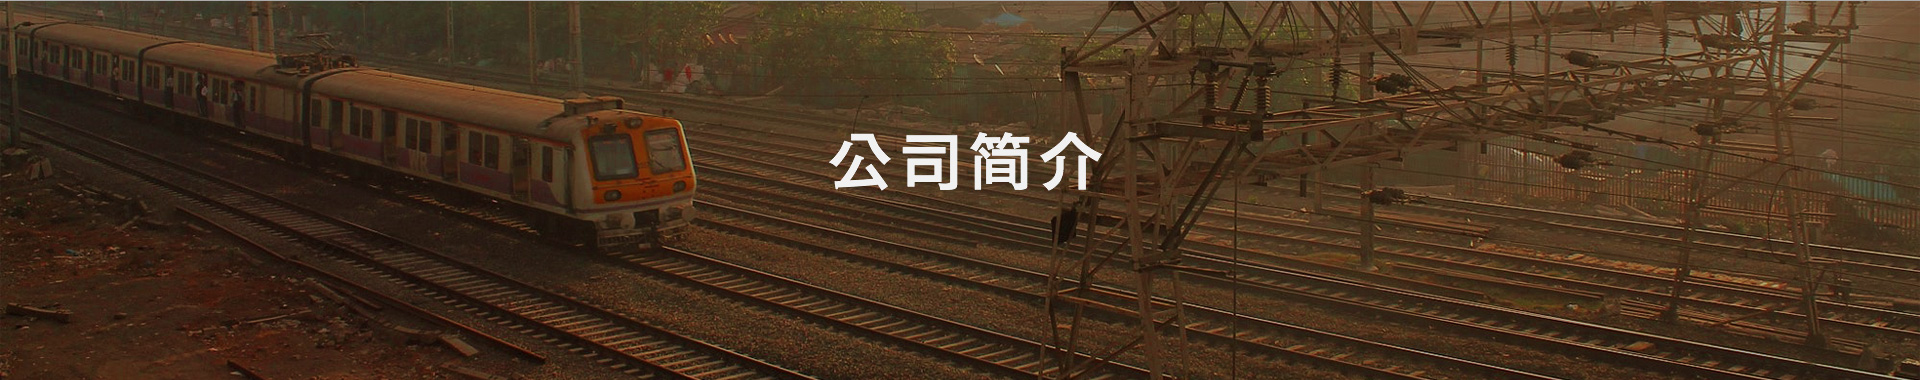
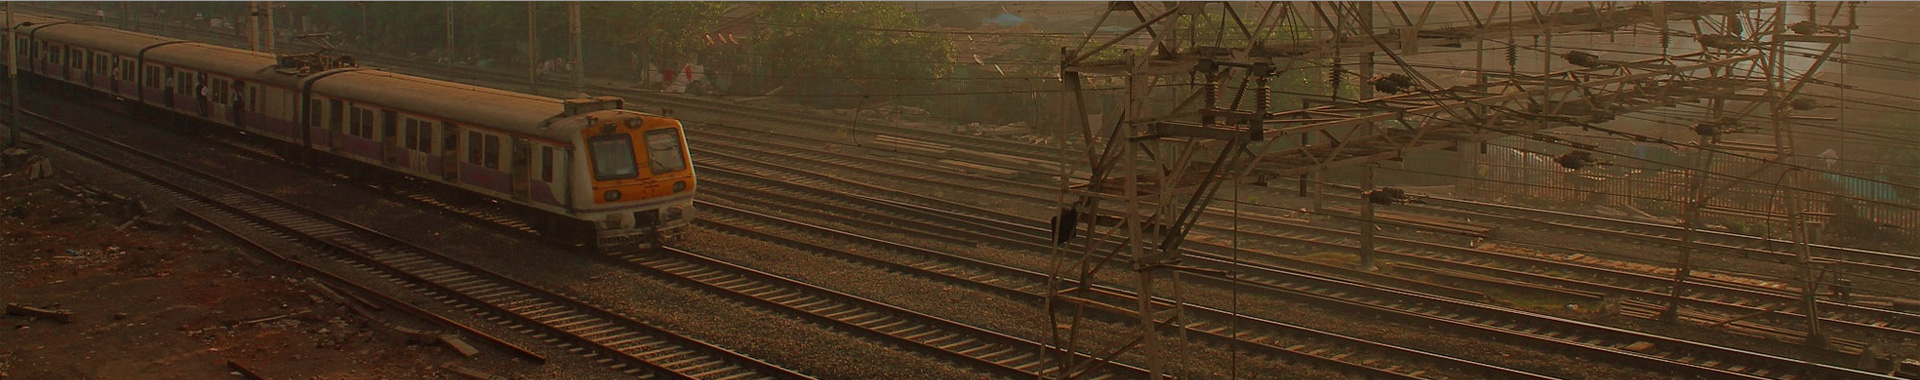
translated for about and header

Changed region(s): [[0.4062, 0.3474, 0.5938, 0.4921]]

diff --git a/src/multi/entries/about/main.js b/src/multi/entries/about/main.js
@@ -18,17 +18,27 @@ class Frame extends MultiMain {
         this.model = {};
         this.tpl = fs.readFileSync(`${__dirname}/view.tpl`, 'utf8');
         this.initModel();
-    }
+    } 
 
     initModel() {
         let head = new Head();
         let header = new Header();
         let footer = new Footer();
-
+ 
         this.model = _.extend(this.model, {
             head: head.render({ less: 'about', title: '<$- RUSSIA_TITLE $>' }).html,
             header: header.render({num: 1}).html,
-            footer: footer.render().html
+            footer: footer.render().html,
+            ABOUT_TITLE_ONE: '<$- ABOUT_TITLE_ONE $>',
+            ABOUT_TITLE_TWO: '<$- ABOUT_TITLE_TWO $>',
+            ABOUT_TITLE_THREE: '<$- ABOUT_TITLE_THREE $>',
+            ABOUT_TITLE_FOUR: '<$- ABOUT_TITLE_FOUR $>',
+            ABOUT_CONTENT_ONE_1: '<$- ABOUT_CONTENT_ONE_1 $>',
+            ABOUT_CONTENT_ONE_2: '<$- ABOUT_CONTENT_ONE_2 $>', 
+            ABOUT_CONTENT_TWO: '<$- ABOUT_CONTENT_TWO $>', 
+            ABOUT_CONTENT_THREE: '<$- ABOUT_CONTENT_THREE $>', 
+            ABOUT_CONTENT_FOUR: '<$- ABOUT_CONTENT_FOUR $>', 
+            ABOUT_TITLE: '<$- NAV_ABOUT $>'
         });
 
         return this;

diff --git a/src/bin/multiMain.js b/src/bin/multiMain.js
@@ -144,13 +144,18 @@ class Header extends MultiView {
     }
 
     initEvent() {
+
         this.$navLis = $('.header .wrapper ul .level_1');
+        // this.chooseLang = document.getElementById('chooseLang');
         this.$chooseLang = $('#chooseLang');
         this.$aDom = $('#header a');
 
         let lang = ~location.href.indexOf('cn') ? 'china' : 'russia';
+        let fontSize = ~location.href.indexOf('cn') ? 16 : 12;
+        this.$navLis.css('font-size', fontSize)
         this.$chooseLang.val(lang);
 
+        // console.log(this.chooseLang)
         // this.$navLis.click(function(event) {
         //     $(this).addClass('cur').siblings().removeClass('cur');
         // });
@@ -196,4 +201,8 @@ class Header extends MultiView {
 
 }
 
-new Header();
+
+$(function() {
+    new Header();
+
+});
